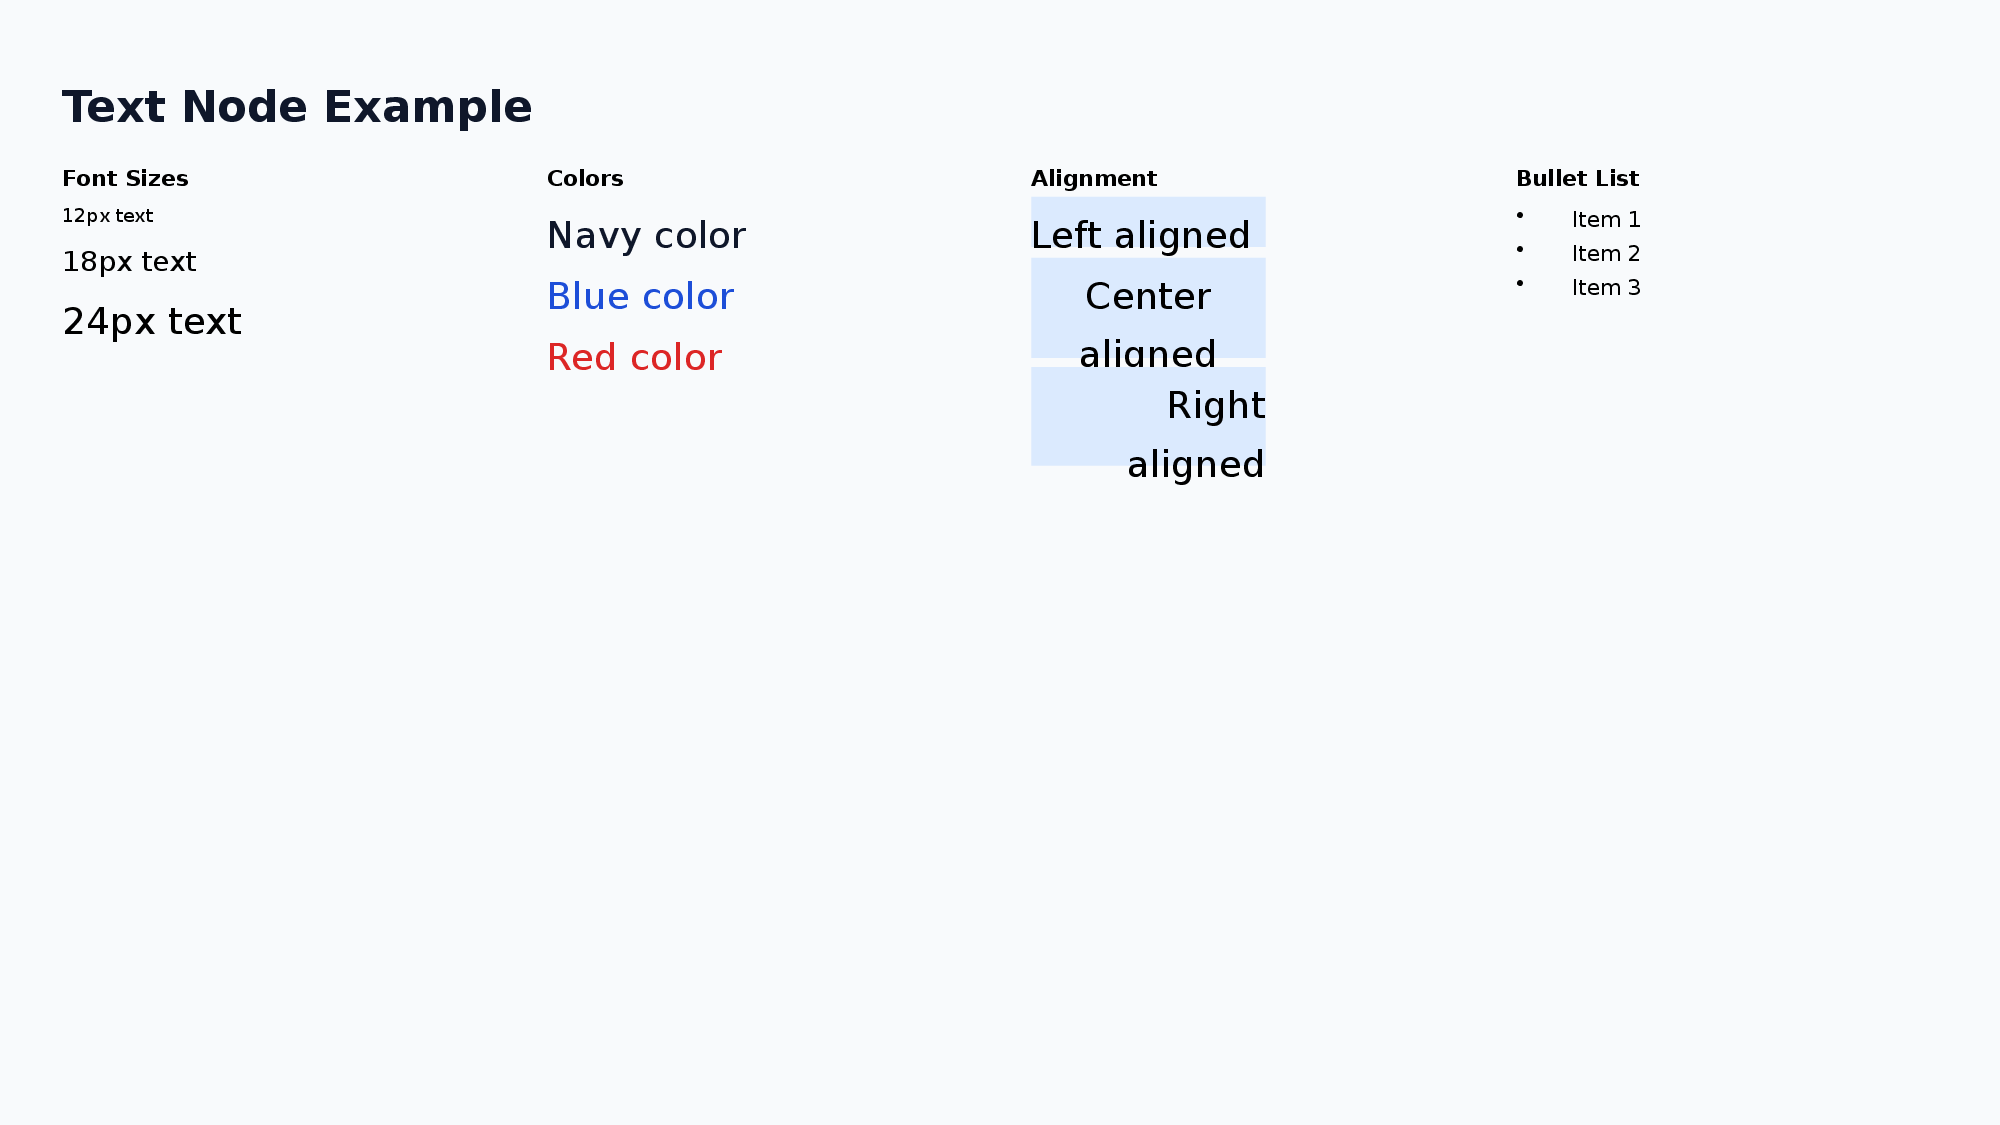
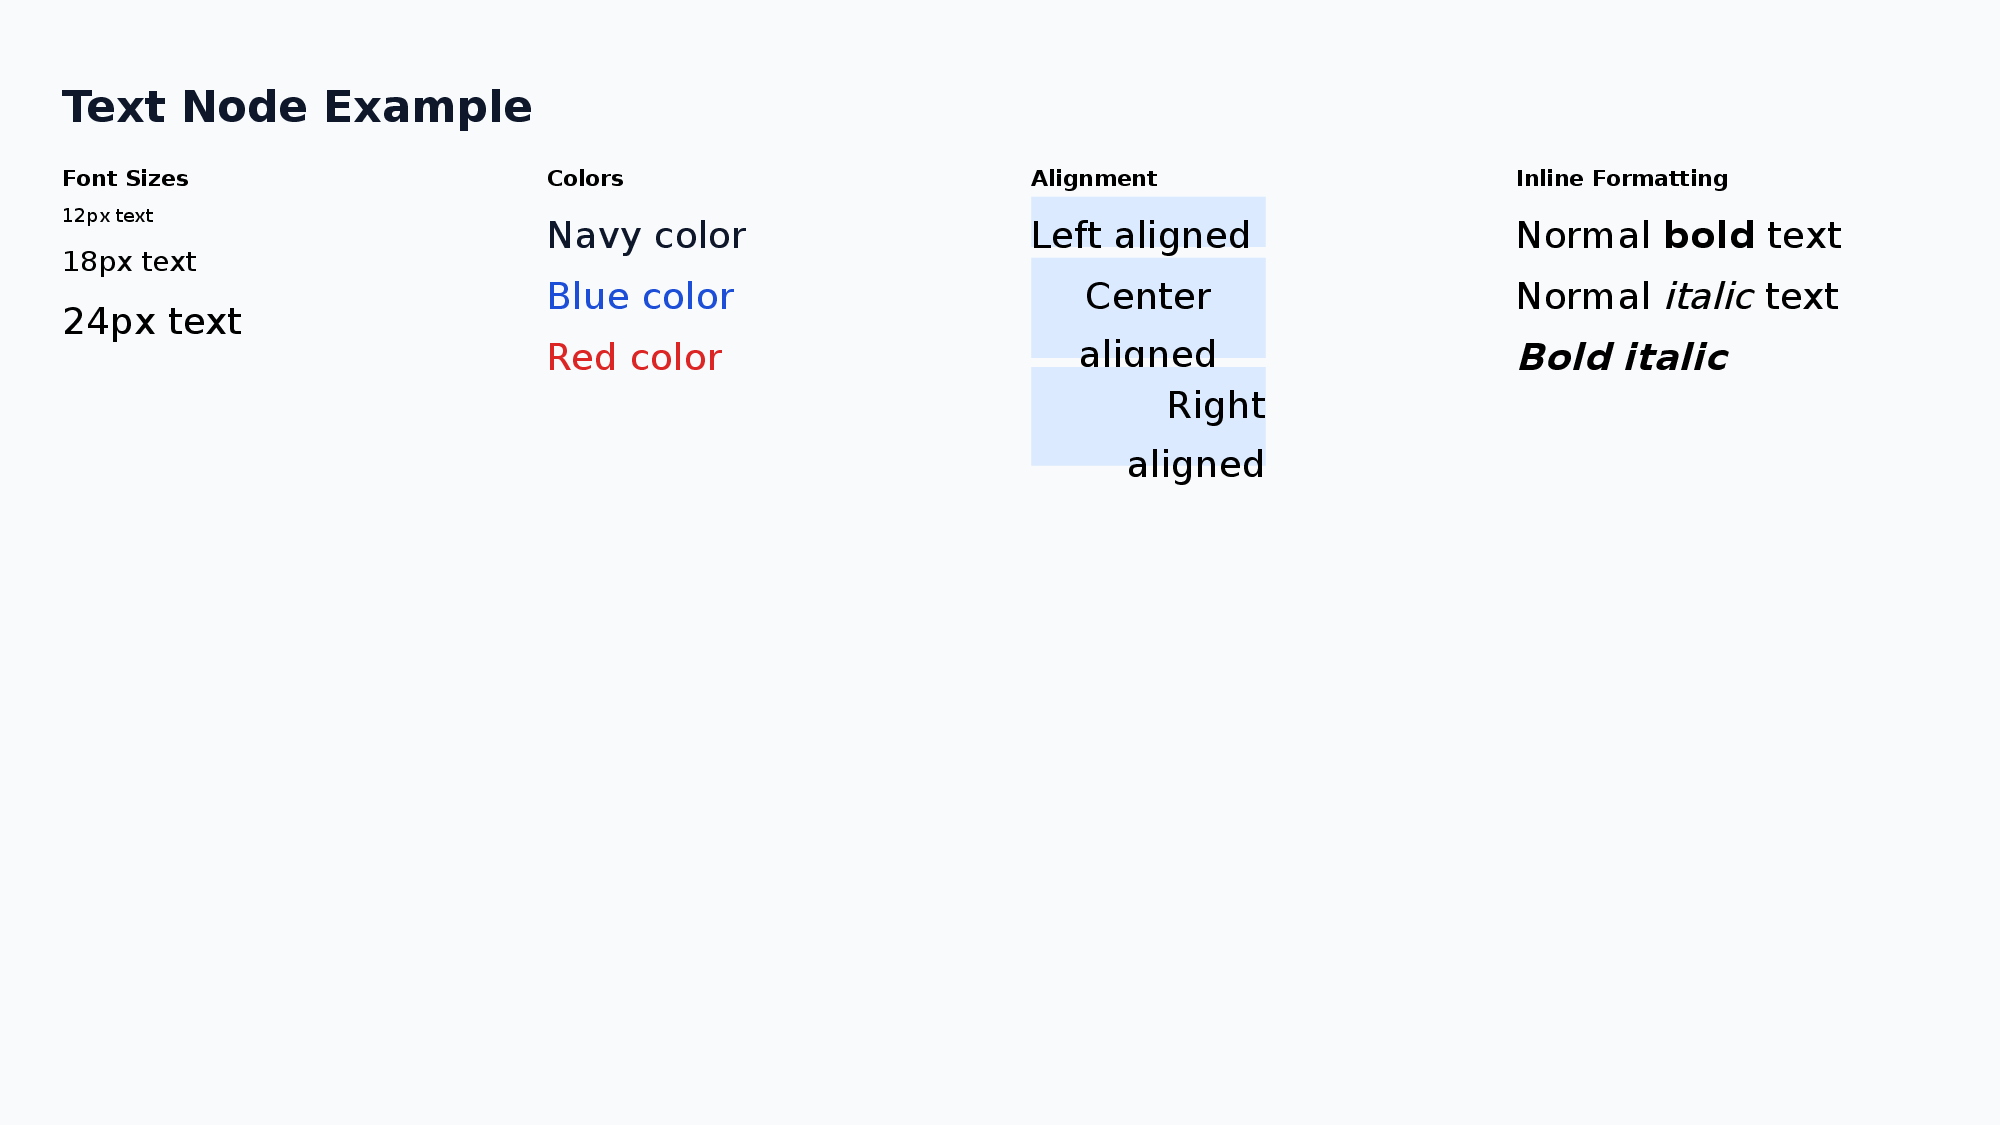
docs: Text ノードサンプル画像にインライン書式の例を追加
sampleNodes.ts の textSample に B/I タグの例を追加し、
docs/images/text.png を再生成した。

Changed region(s): [[0.744, 0.1556, 0.93, 0.28], [0.744, 0.3111, 0.868, 0.3422]]

diff --git a/packages/pom/scripts/docs-images/sampleNodes.ts b/packages/pom/scripts/docs-images/sampleNodes.ts
@@ -35,8 +35,10 @@ const textSample = `
       <Text textAlign="right" w="150" backgroundColor="${palette.lightBlue}">Right aligned</Text>
     </VStack>
     <VStack gap="8">
-      <Text fontSize="14" bold="true">Bullet List</Text>
-      <Ul fontSize="14"><Li>Item 1</Li><Li>Item 2</Li><Li>Item 3</Li></Ul>
+      <Text fontSize="14" bold="true">Inline Formatting</Text>
+      <Text>Normal <B>bold</B> text</Text>
+      <Text>Normal <I>italic</I> text</Text>
+      <Text><B><I>Bold italic</I></B></Text>
     </VStack>
   </HStack>
 </VStack>
